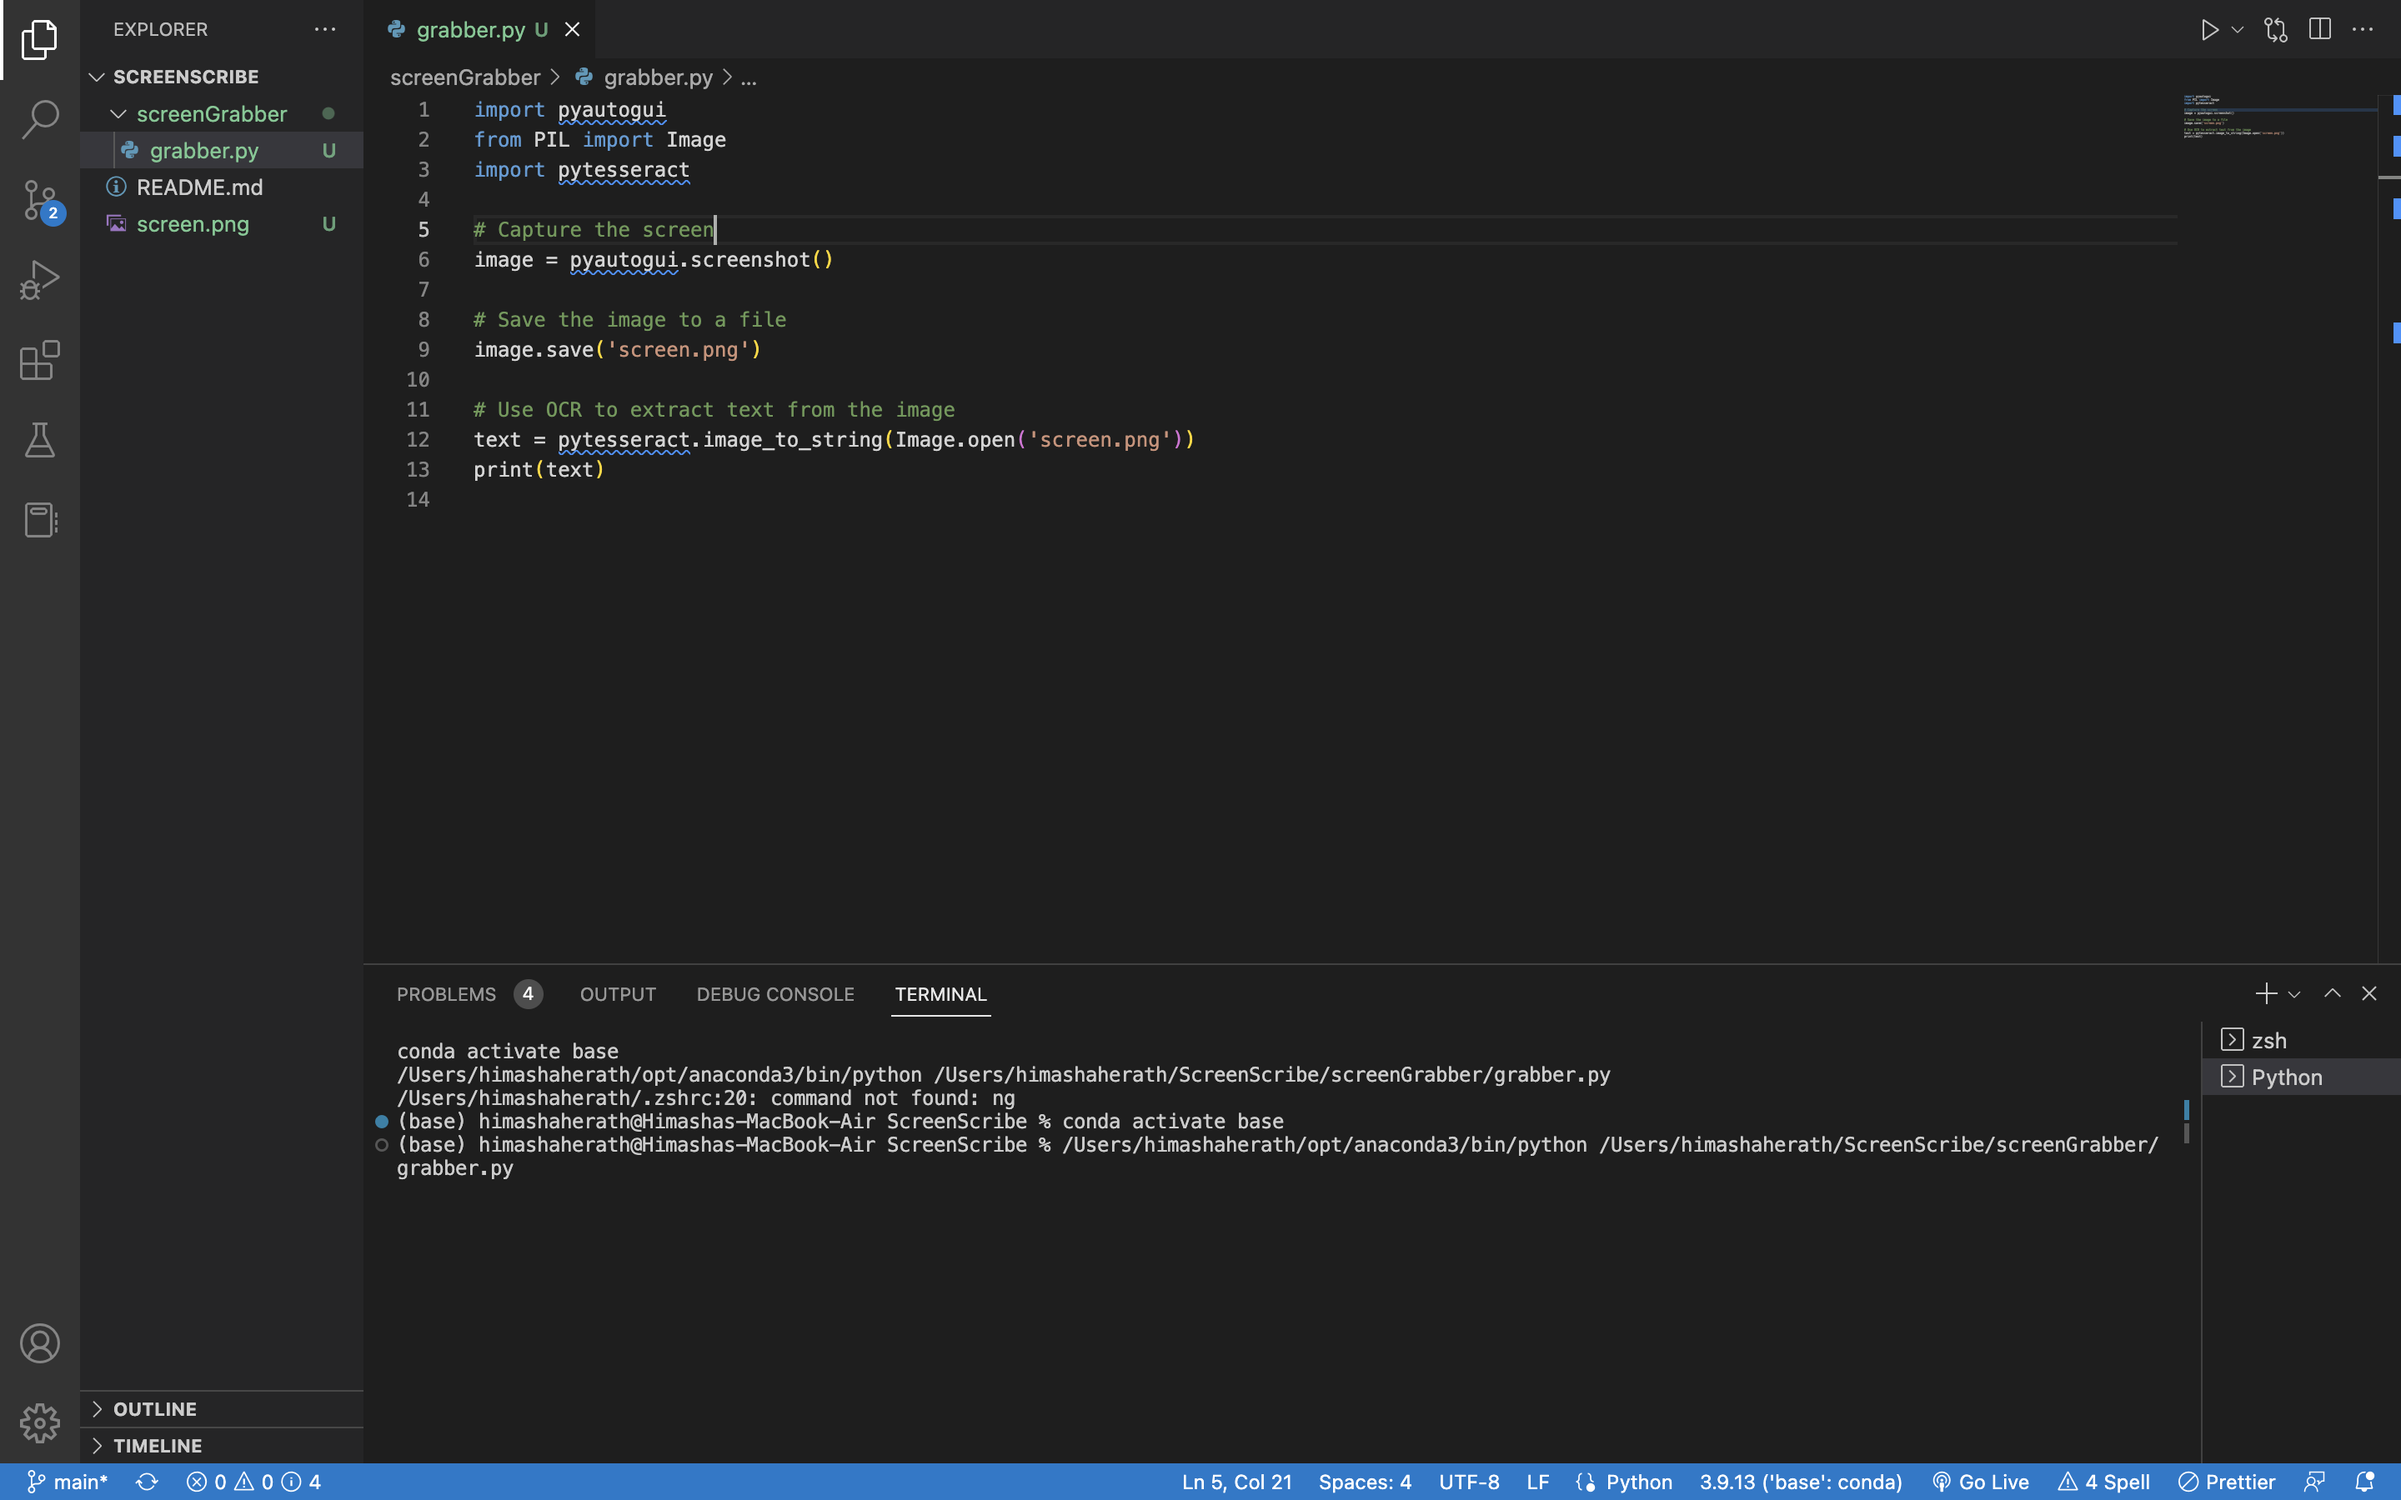
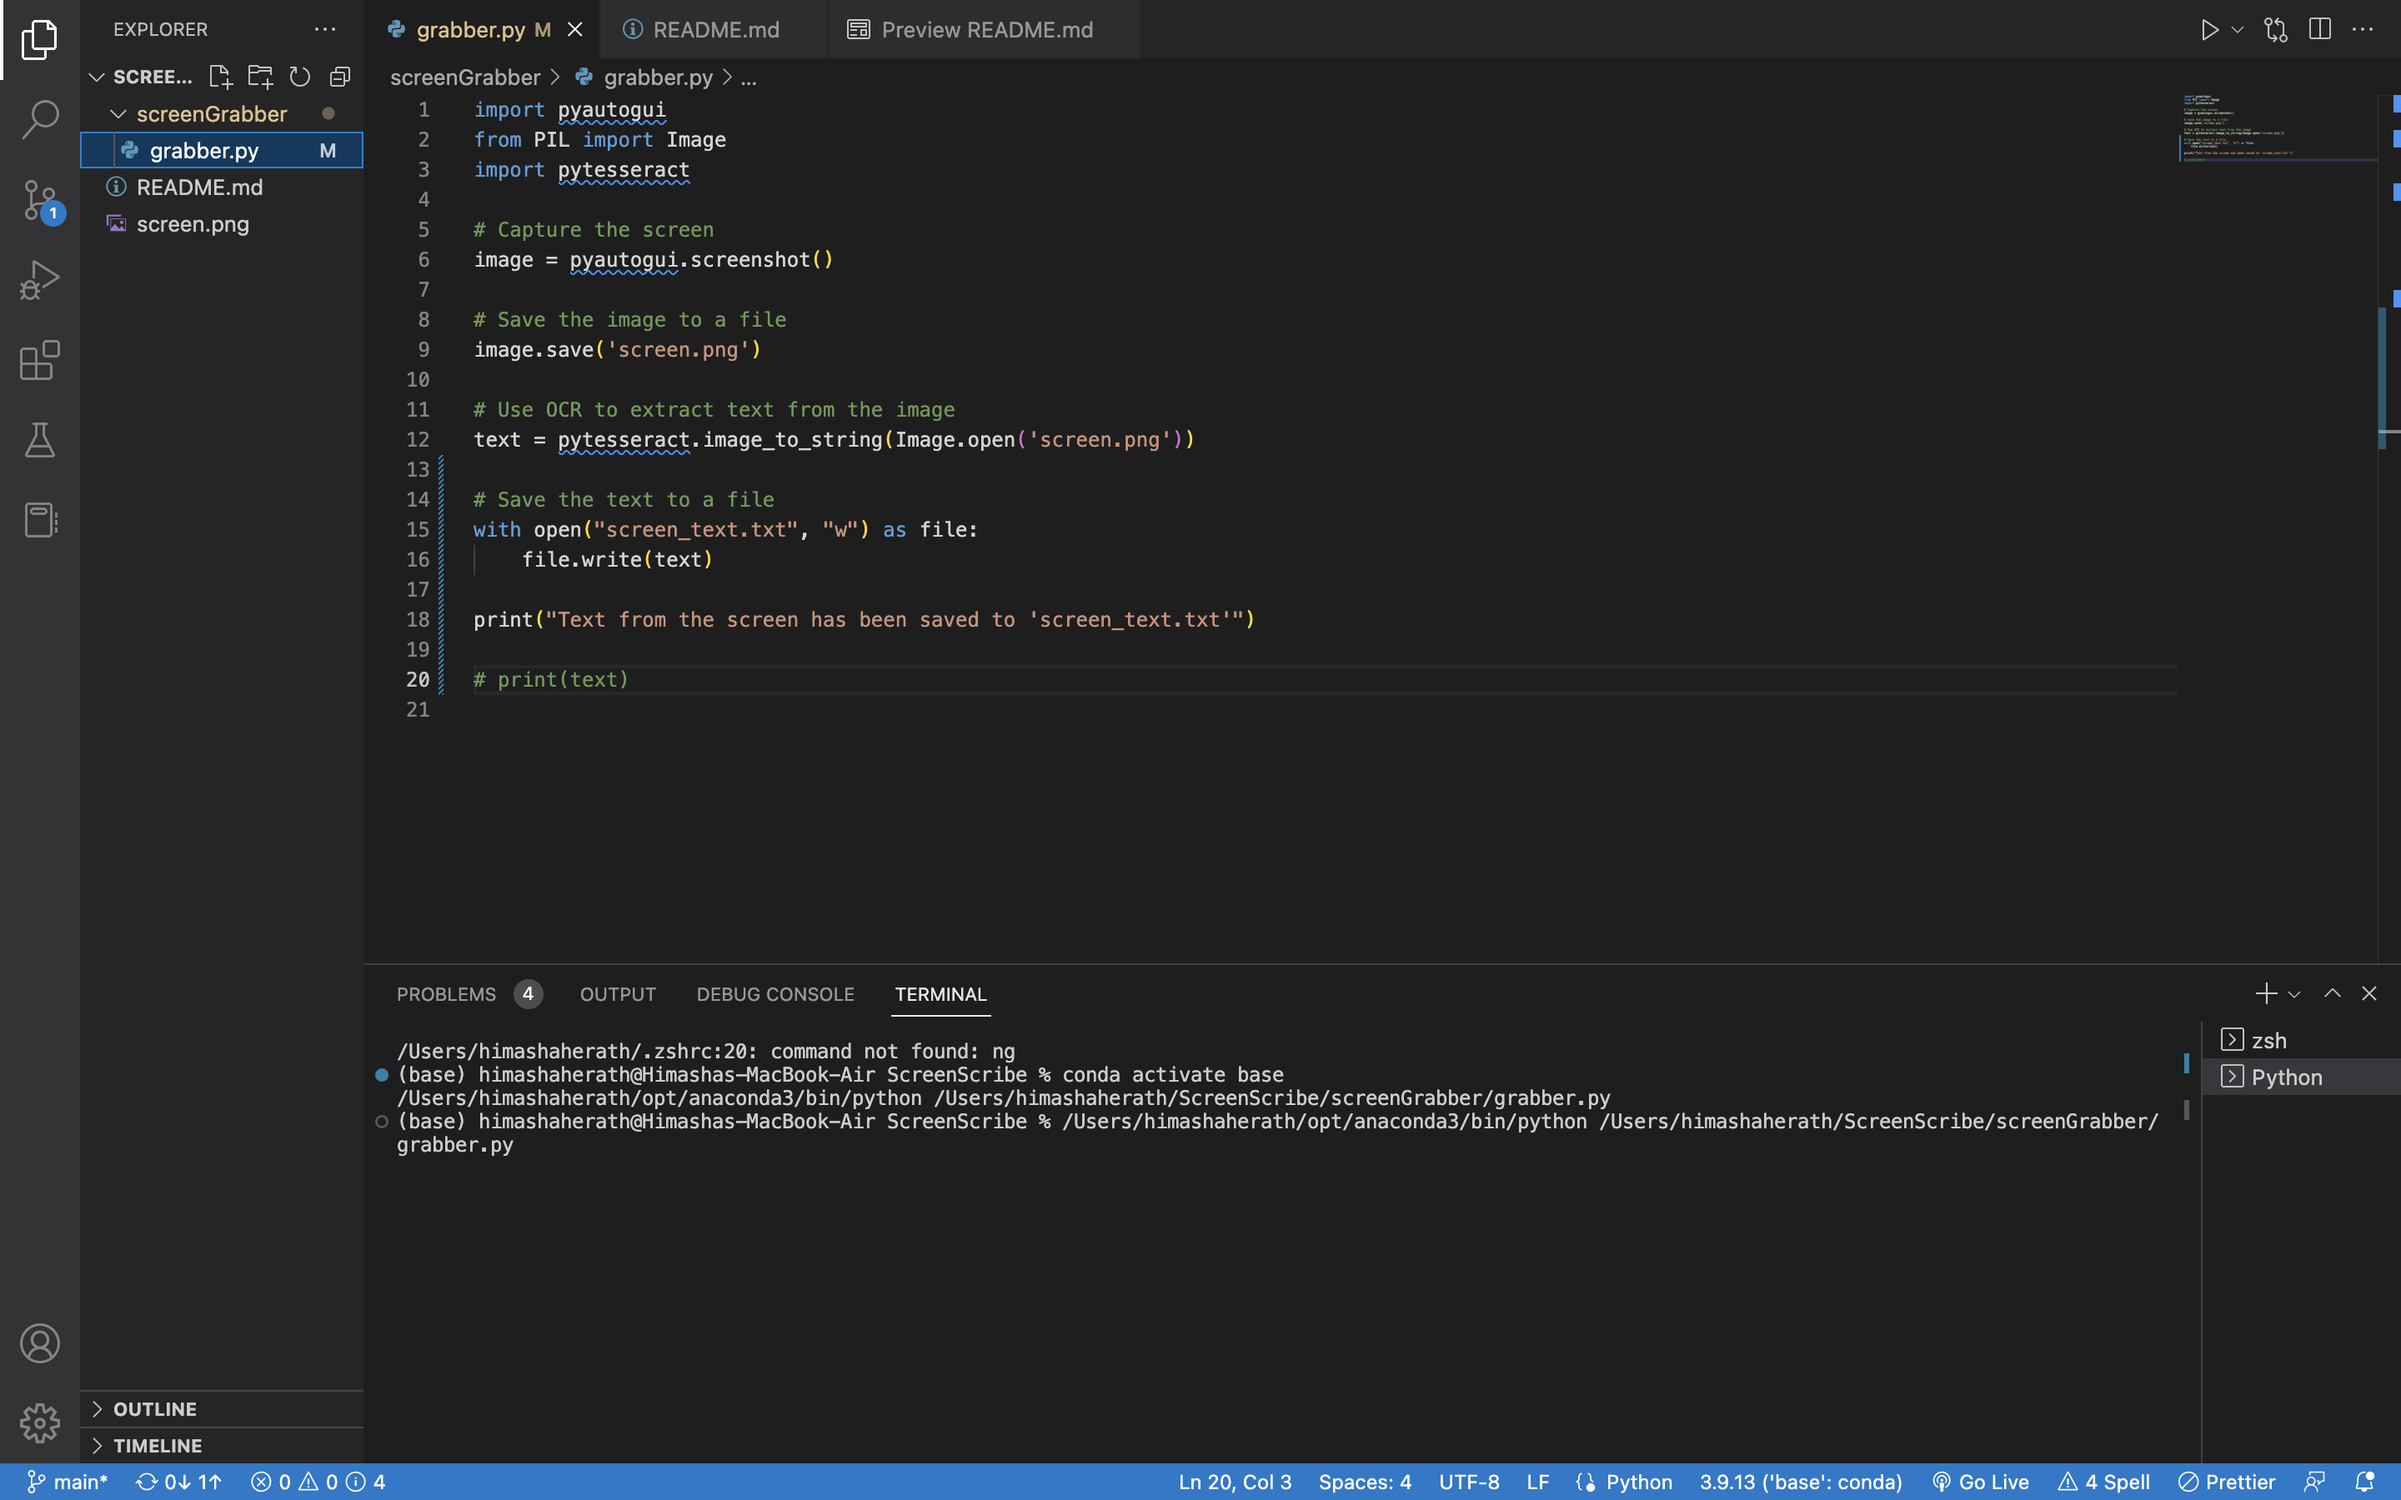
new

diff --git a/screenGrabber/grabber.py b/screenGrabber/grabber.py
@@ -10,4 +10,11 @@ image.save('screen.png')
 
 # Use OCR to extract text from the image
 text = pytesseract.image_to_string(Image.open('screen.png'))
-print(text)
+
+# Save the text to a file
+with open("screen_text.txt", "w") as file:
+    file.write(text)
+
+print("Text from the screen has been saved to 'screen_text.txt'")
+
+# print(text)
